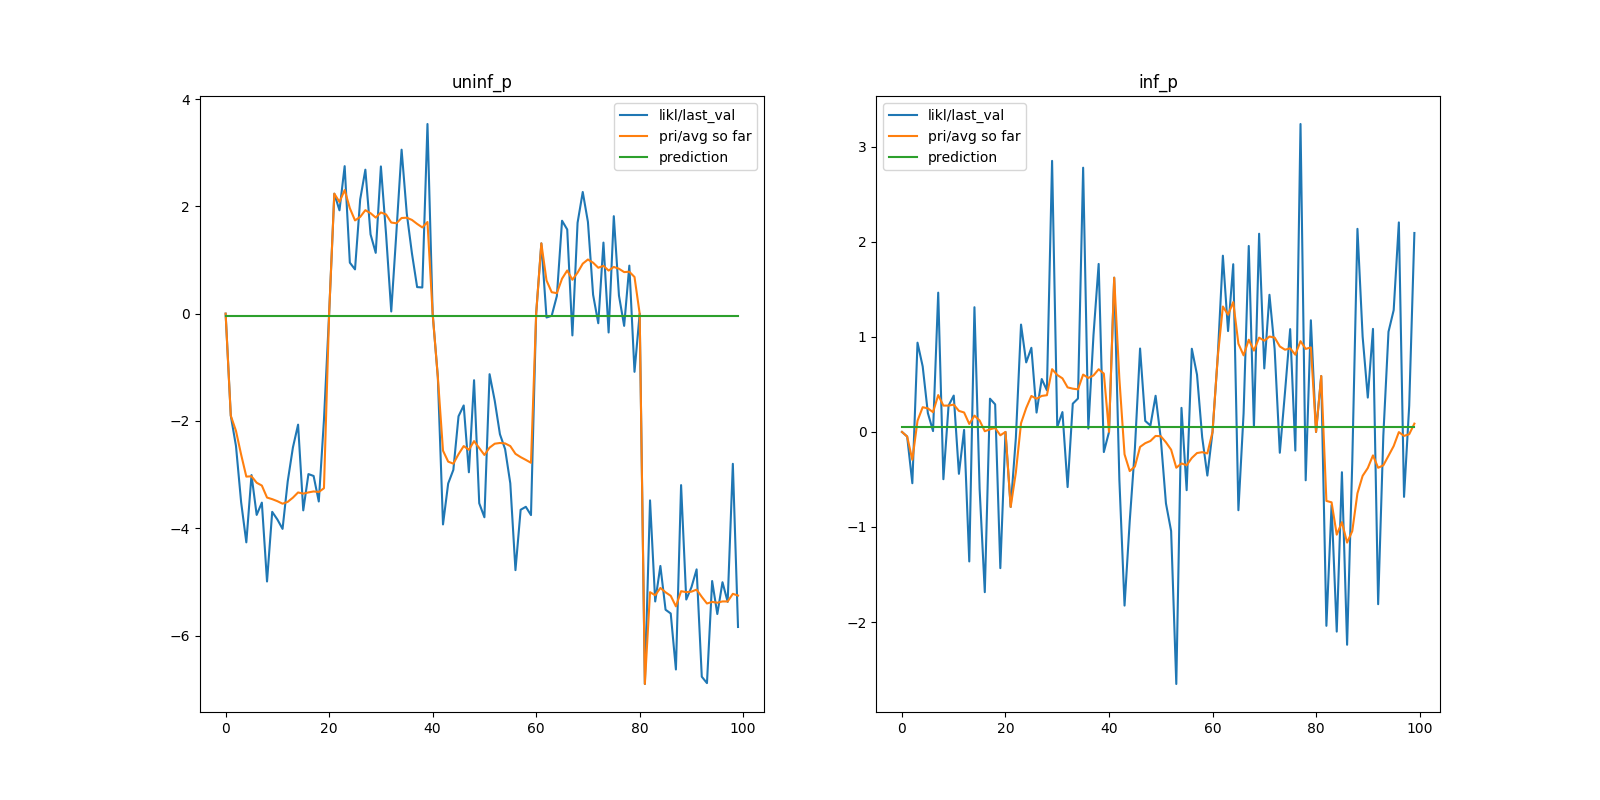
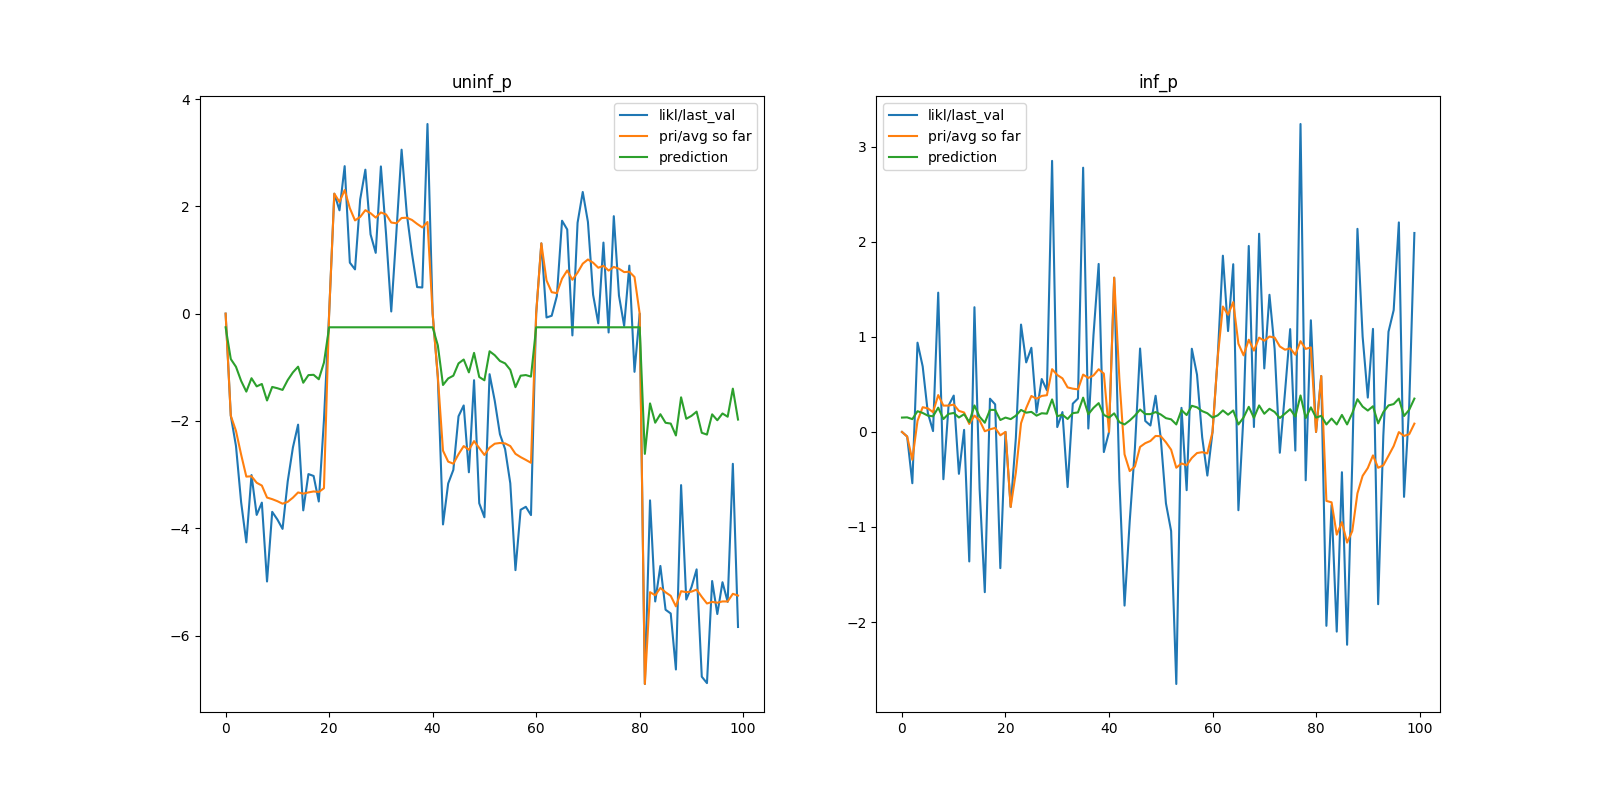
Loss explodes for grad outside version of BBVI in Gaussian

diff --git a/models.py b/models.py
@@ -24,8 +24,8 @@ class MLP_disc(nn.Module):
 
     def forward(self, x):
         x = self.fc1(x)
-        #x = F.tanh(x)
-        x = F.relu(x)
+        x = F.tanh(x)
+        #x = F.relu(x)
         x = self.fc2(x)
         x = F.log_softmax(x)
         return x
@@ -121,7 +121,7 @@ class MLP_cont(nn.Module):
         #std = np.exp(np.clip(vals[0,1], -20, 20))
         std = 1.0 * vals[0,0] / vals[0,0]
         samples = np.random.normal(vals[0,0], std, n_samp)
-        print("Sampling", vals[0,0], std, n_samp)
+        #print("Sampling", vals[0,0], std, n_samp)
         return torch.from_numpy(samples).type(torch.FloatTensor)
     
     def train(self, data, N_epoch):
@@ -323,24 +323,36 @@ class ButtonRational():
         if len(self.mus) > 1 : self.v2 = np.var(np.array(self.mus))
         return
     
+    #def log_joint(self, last, msf, N):
+        #msf = autograd.Variable(torch.Tensor(np.array([msf]))).view(1,-1)
+        #m = autograd.Variable(torch.Tensor([self.m])).view(1,-1)
+        #s2 = autograd.Variable(torch.Tensor([self.s2])).view(1,-1)
+        #v2 = autograd.Variable(torch.Tensor(np.array([self.v2]))).view(1,-1)
+                
+        #pri_log_prob = lambda x : -(((x - msf)/torch.sqrt(s2))**2 
+                                    #+ torch.log(2*np.pi*s2))/2.0
+        
+        #likl_log_prob = lambda x : -(((x - m)/torch.sqrt(v2))**2 
+                                            #+ torch.log(2*np.pi*v2))/2.0
+        
+        ##likl = dists.Normal(msf, torch.sqrt(s2))
+        ##pri = dists.Normal(self.m, torch.sqrt(v2))
+        
+        #lj_func = lambda x: pri_log_prob(x) + likl_log_prob(x)         
+        #return lj_func
+    
     def log_joint(self, last, msf, N):
         msf = autograd.Variable(torch.Tensor(np.array([msf]))).view(1,-1)
         m = autograd.Variable(torch.Tensor([self.m])).view(1,-1)
-        s2 = autograd.Variable(torch.Tensor([self.s2])).view(1,-1)
-        v2 = autograd.Variable(torch.Tensor(np.array([self.v2]))).view(1,-1)
-                
-        pri_log_prob = lambda x : -(((x - msf)/torch.sqrt(s2))**2 
-                                    + torch.log(2*np.pi*s2))/2.0
+        s2 = autograd.Variable(torch.Tensor([np.log(self.s2)])).view(1,-1)
+        v2 = autograd.Variable(torch.Tensor(np.array([np.log(self.v2)]))).view(1,-1)
         
-        likl_log_prob = lambda x : -(((x - m)/torch.sqrt(v2))**2 
-                                            + torch.log(2*np.pi*v2))/2.0
-        
-        #likl = dists.Normal(msf, torch.sqrt(s2))
-        #pri = dists.Normal(self.m, torch.sqrt(v2))
-        
-        lj_func = lambda x: pri_log_prob(x) + likl_log_prob(x)         
-        return lj_func
-        
+        pr_vec = torch.cat((msf, s2/2), 0)
+        lik_vec = torch.cat((m, v2/2), 0)
+        lj_vec = torch.cat((pr_vec, lik_vec),1)
+             
+        return lj_vec    
+    
     
     def pred_post_MAP(self, last, msf, N):
         est_mu = (self.s2*self.m + self.v2*(msf * N * self.N_t)) / \

diff --git a/generative.py b/generative.py
@@ -171,30 +171,55 @@ class Button ():
    
         return JS
     
+    #@staticmethod
+    #def VI_loss_function(yval, samples, target):
+        #'''
+        #Takes joint probability function as P input
+        #'''
+        
+        ## Here the target is a lambda function for log joint
+        ## yval are the params given
+        
+        #logq = gaussian_logpdf(yval, samples)
+        #logp = target(samples)
+        
+        #ELBO = torch.mean(logq*(logp - logq/2))
+        
+        ##print("yval, ", yval.data.numpy())
+        #print("samples", samples.data.numpy()[:3])
+        #print("logp", logp.data.numpy()[0][:3])
+        #print("logq", logq.data.numpy()[0][:3])
+        
+        #print("loss, ", ELBO.data.numpy())
+        #print("**************")
+        #return -ELBO
+    
     @staticmethod
     def VI_loss_function(yval, samples, target):
         '''
-        Takes joint probability function as P input
+        Takes prior and likl params as P input
         '''
         
         # Here the target is a lambda function for log joint
         # yval are the params given
         
         logq = gaussian_logpdf(yval, samples)
-        logp = target(samples)
+        prior = target[0,:].view(1,-1)
+        likl = target[1,:].view(1,-1)
+        logp = gaussian_logpdf(prior, samples) + gaussian_logpdf(likl, samples)
         
-        ELBO = torch.mean(logq*(logp - logq/2))
-        
+        #ELBO = torch.mean(logq*(logp - logq/2))
+
+        ELBO = torch.mean(logp - logq)
         #print("yval, ", yval.data.numpy())
-        print("samples", samples.data.numpy()[:3])
-        print("logp", logp.data.numpy()[0][:3])
-        print("logq", logq.data.numpy()[0][:3])
+        #print("prior and likle", prior.data.numpy(), likl.data.numpy())
+        #print("samples", samples.data.numpy()[:3])
+        #print("logp", logp.data.numpy()[0][:3])
+        #print("logq", logq.data.numpy()[0][:3])
         
-        print("loss, ", ELBO.data.numpy())
-        print("**************")
-        return -ELBO
-    
-    
+        #print("loss, ", ELBO.data.numpy())
+        #print("**************")
+        return -ELBO    
     
     
     def get_approxmodel(self, DIM, INPUT_SIZE, nhid):
